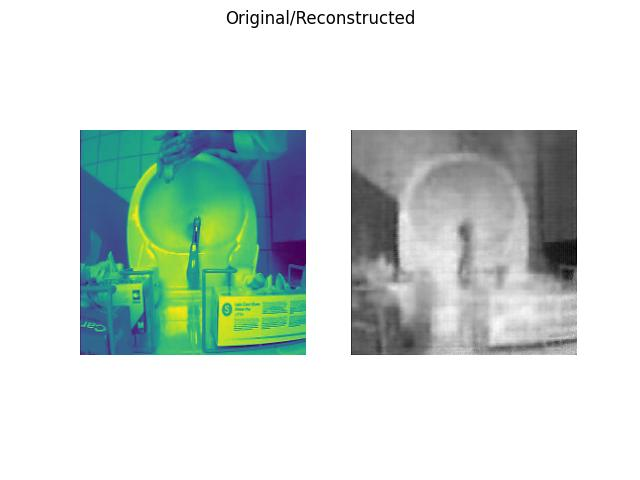
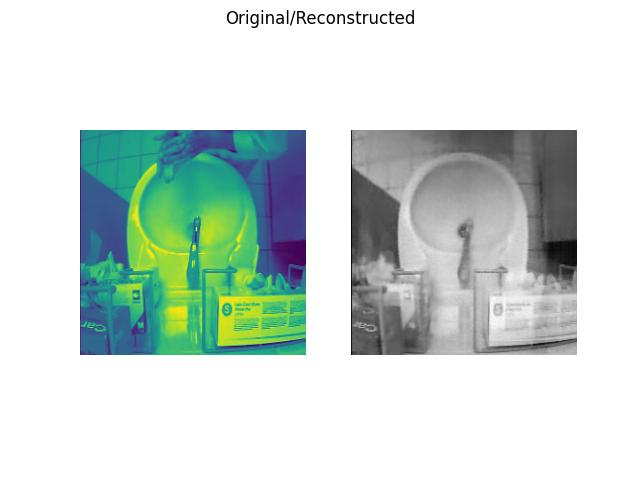
update CAE

diff --git a/E2Evideo/conv_autoencoder.py b/E2Evideo/conv_autoencoder.py
@@ -27,30 +27,23 @@ class Encoder(nn.Module):
 
         self.net = nn.Sequential(
             nn.Conv2d(in_channels, out_channels, 3, padding=1), # (224, 244, 64)
-            #nn.Conv2d(out_channels, out_channels, 3, padding=1),
             act_fn,
-            nn.MaxPool2d(kernel_size = 2, stride = 2), # (112, 112, 64)
+            nn.Conv2d(out_channels, out_channels, 3, padding=1, stride = 2), # (112, 112, 64)
             nn.Conv2d(out_channels, 2 * out_channels, 3, padding=1), # (112, 112, 128)
-            #nn.Conv2d(2* out_channels, 2 * out_channels, 3, padding=1),
             act_fn,
-            nn.MaxPool2d(kernel_size = 2, stride = 2), # (56, 56, 128)
+            nn.Conv2d(2 * out_channels, 2 * out_channels, 3, padding = 1, stride = 2), # (56, 56, 128)
             nn.Conv2d(2 * out_channels, 4*out_channels, 3, padding=1), # (56, 56, 256)
-            #nn.Conv2d(4 * out_channels, 4*out_channels, 3, padding=1),
-            #nn.Conv2d(4 * out_channels, 4*out_channels, 3, padding=1),
             act_fn,
-            nn.MaxPool2d(kernel_size = 2, stride = 2), # (28, 28 , 256)
+            nn.Conv2d(4* out_channels, 4* out_channels, 3, padding = 1, stride = 2), # (28, 28 , 256)
             nn.Conv2d(4*out_channels, 8*out_channels, 3, padding=1), # (28, 28 , 512)
-            #nn.Conv2d(8*out_channels, 8*out_channels, 3, padding=1), 
-            #nn.Conv2d(8*out_channels, 8*out_channels, 3, padding=1), 
             act_fn,
-            nn.MaxPool2d(kernel_size = 2, stride = 2), # (14, 14 , 512)
+            nn.Conv2d(8*out_channels, 8*out_channels, 3, padding = 1, stride = 2), # (14, 14 , 512)
             nn.Conv2d(8*out_channels, 8*out_channels, 3, padding=1), # (14, 14 , 512)
-            #nn.Conv2d(8*out_channels, 8*out_channels, 3, padding=1),
             act_fn,
-            nn.MaxPool2d(kernel_size = 2, stride = 2), # (7, 7 , 512)
+            nn.Conv2d(8*out_channels, 8*out_channels, 3, padding = 1, stride = 2), # (7, 7 , 512)
             nn.Flatten(),
             nn.Linear(8*out_channels*7*7, latent_dim), #(1000)
-            act_fn)
+            nn.Sigmoid())
     def forward(self, in_):
         """
         Forward function in the encoder.
@@ -75,24 +68,20 @@ class Decoder(nn.Module):
             act_fn,
             nn.ConvTranspose2d(8*out_channels, 4*out_channels, 3, padding=1,
                             stride=2, output_padding=1), # (14, 14, 256)
-            #nn.ConvTranspose2d(4*out_channels, 4*out_channels, 3, padding=1),
             act_fn,
             nn.ConvTranspose2d(4*out_channels, 2*out_channels, 3, padding=1,
                             stride=2, output_padding=1), # (28, 28, 128)
-            #nn.ConvTranspose2d(2*out_channels, 2*out_channels, 3, padding=1),
             act_fn,
             nn.ConvTranspose2d(2*out_channels, out_channels, 3, padding=1, stride=2, output_padding=1), # (56, 56, 64)
-            #nn.ConvTranspose2d(out_channels, out_channels, 3, padding=1), 
             act_fn,
             nn.ConvTranspose2d(out_channels, out_channels, 3, padding=1,
                             stride=2, output_padding=1), # (112, 112, 64)
-            #nn.ConvTranspose2d(out_channels, out_channels, 3, padding = 1),
             act_fn,
             nn.ConvTranspose2d(out_channels, out_channels, 3, padding=1,
                             stride=2, output_padding=1), # (224, 224, 64)
-            #nn.ConvTranspose2d(out_channels, out_channels, 3 , padding=1),
             act_fn,
-            nn.ConvTranspose2d(out_channels, in_channels, 3, padding=1) # (224, 224, 3)
+            nn.ConvTranspose2d(out_channels, in_channels, 3, padding=1), # (224, 224, 3)
+            nn.Sigmoid()
             )
     def forward(self, bottleneck):
         """

diff --git a/E2Evideo/feature_extractor.py b/E2Evideo/feature_extractor.py
@@ -55,7 +55,7 @@ def main(args):
         visual_data, test_data = train_test_split(test_data, test_size=0.98, random_state=42)
     #  training model
     model = ConvolutionalAutoencoder(Autoencoder(Encoder(), Decoder()))
-    training_args = {'loss_function': nn.MSELoss(), 'epochs': 1000 , 'batch_size': 16,
+    training_args = {'loss_function': nn.BCELoss(), 'epochs': 10000 , 'batch_size': 16,
                 'training_set': training_data, 'test_set': test_data, 'visual_set': visual_data}
     log_dict = model.train(training_args) 
 
